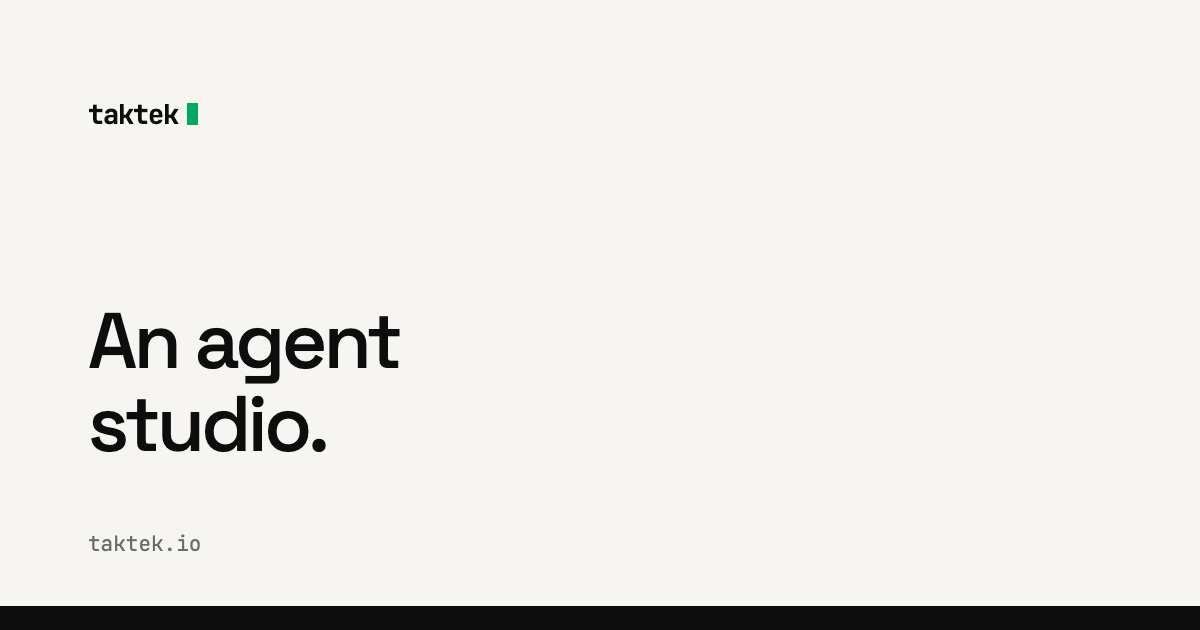
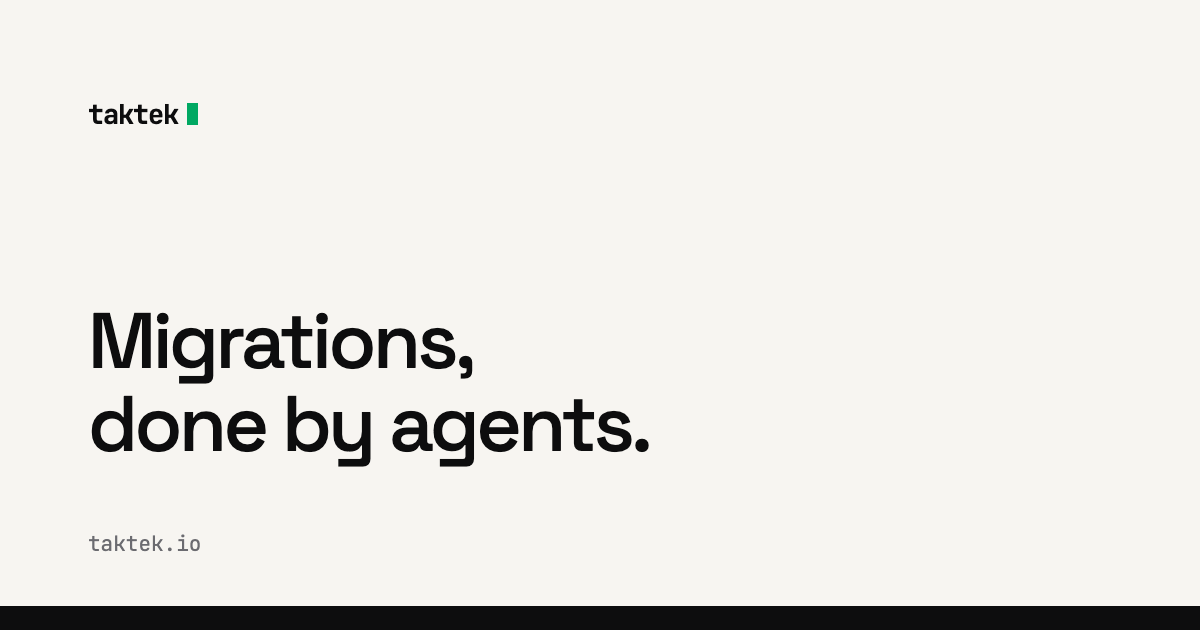
Home: migrations, done by agents
Taktek sells one thing now, so the home page says it: the moves in the
display mono the work list used, each row an email with the move as its
subject, four lines on how, and the pilot offer. The work list stays, below,
as what the same agents built. No employer and no client names: the proof
goes in emails, not on a public page. Share card, llms.txt and the sitemap
date follow.

Changed region(s): [[0.0617, 0.4825, 0.555, 0.754]]

diff --git a/index.html b/index.html
@@ -3,12 +3,12 @@
 <head>
 <meta charset="utf-8">
 <meta name="viewport" content="width=device-width,initial-scale=1">
-<title>taktek — an agent studio</title>
-<meta name="description" content="An agent studio. Hobeich Legal, Closet.ai, BucksBuddy, ghazl, Fitness Spot and Sawfar News.">
+<title>taktek — migrations, done by agents</title>
+<meta name="description" content="A dev shop where the developers are AI agents. Rails to Go, GraphQL to REST, off a vendor, off a monolith. Try one slice at a fixed price: if you don't merge it, you don't pay.">
 <meta name="theme-color" content="#F7F5F1" media="(prefers-color-scheme:light)">
 <meta name="theme-color" content="#0D0D0E" media="(prefers-color-scheme:dark)">
 <meta property="og:title" content="taktek">
-<meta property="og:description" content="An agent studio.">
+<meta property="og:description" content="Migrations, done by agents.">
 <meta property="og:url" content="https://taktek.io">
 <meta property="og:image" content="https://taktek.io/assets/og/og.png">
 <meta property="og:image:width" content="1200">
@@ -21,7 +21,6 @@
 <link rel="preconnect" href="https://fonts.googleapis.com">
 <link rel="preconnect" href="https://fonts.gstatic.com" crossorigin>
 <link href="https://fonts.googleapis.com/css2?family=Space+Grotesk:wght@400;500;700&family=JetBrains+Mono:wght@400;700&display=swap" rel="stylesheet">
-<link rel="canonical" href="https://taktek.io/">
 <meta name="robots" content="index, follow, max-image-preview:large">
 <script type="application/ld+json">
 {
@@ -30,9 +29,10 @@
   "name": "Taktek, LLC",
   "alternateName": "taktek",
   "url": "https://taktek.io/",
-  "description": "An agent studio.",
+  "description": "A dev shop where the developers are AI agents. It migrates code and proves each piece behaves like the old code before it ships.",
   "email": "nizar@taktek.io",
-  "founder": { "@type": "Person", "name": "Nizar" },
+  "founder": { "@type": "Person", "name": "Nizar Mahmoud" },
+  "knowsAbout": ["code migration", "legacy modernization", "AI coding agents", "Ruby on Rails", "Go", "GraphQL", "REST"],
   "sameAs": [
     "https://github.com/taktekhq",
     "https://hobeichlegal.com/",
@@ -74,17 +74,44 @@
   <div class="wrap">
     <section class="hero">
       <p class="eyebrow">Taktek, LLC</p>
-      <h1>An agent<br>studio<em>.</em></h1>
+      <h1>Migrations,<br>done by agents<em>.</em></h1>
+      <p class="lede">A dev shop where the developers are AI agents. We move your code, and prove it still works.</p>
     </section>
 
-    <section class="index" aria-label="Work">
-      <a class="row" target="_blank" rel="noopener" href="https://hobeichlegal.com"><span class="row__n">01</span><span class="row__url">hobeichlegal.com</span><span class="row__arrow" aria-hidden="true">&rarr;</span></a>
-      <a class="row" target="_blank" rel="noopener" href="https://closet.ai"><span class="row__n">02</span><span class="row__url">closet.ai</span><span class="row__arrow" aria-hidden="true">&rarr;</span></a>
-      <a class="row" target="_blank" rel="noopener" href="https://professionallurker.com"><span class="row__n">03</span><span class="row__url">professionallurker.com</span><span class="row__arrow" aria-hidden="true">&rarr;</span></a>
-      <a class="row" target="_blank" rel="noopener" href="https://bucksbuddy.com"><span class="row__n">04</span><span class="row__url">bucksbuddy.com</span><span class="row__arrow" aria-hidden="true">&rarr;</span></a>
-      <a class="row" target="_blank" rel="noopener" href="https://ghazl.ai"><span class="row__n">05</span><span class="row__url">ghazl.ai</span><span class="row__arrow" aria-hidden="true">&rarr;</span></a>
-      <a class="row" target="_blank" rel="noopener" href="https://sawfarnews.com"><span class="row__n">06</span><span class="row__url">sawfarnews.com</span><span class="row__arrow" aria-hidden="true">&rarr;</span></a>
-      <a class="row" target="_blank" rel="noopener" href="https://fitnessspotlb.com"><span class="row__n">07</span><span class="row__url">fitnessspotlb.com</span><span class="row__arrow" aria-hidden="true">&rarr;</span></a>
+    <section class="index" aria-label="What we move">
+      <a class="row" href="mailto:nizar@taktek.io?subject=Rails%20to%20Go"><span class="row__n">01</span><span class="row__url">Rails <b>&rarr;</b> Go</span><span class="row__arrow" aria-hidden="true">&rarr;</span></a>
+      <a class="row" href="mailto:nizar@taktek.io?subject=GraphQL%20to%20REST"><span class="row__n">02</span><span class="row__url">GraphQL <b>&rarr;</b> REST</span><span class="row__arrow" aria-hidden="true">&rarr;</span></a>
+      <a class="row" href="mailto:nizar@taktek.io?subject=Off%20a%20vendor"><span class="row__n">03</span><span class="row__url">off a vendor</span><span class="row__arrow" aria-hidden="true">&rarr;</span></a>
+      <a class="row" href="mailto:nizar@taktek.io?subject=Off%20a%20monolith"><span class="row__n">04</span><span class="row__url">off a monolith</span><span class="row__arrow" aria-hidden="true">&rarr;</span></a>
+      <a class="row row--ask" href="mailto:nizar@taktek.io?subject=A%20migration"><span class="row__n">05</span><span class="row__url">yours?</span><span class="row__arrow" aria-hidden="true">&rarr;</span></a>
+    </section>
+
+    <section class="sec" aria-label="How">
+      <p class="eyebrow">How</p>
+      <ol class="steps">
+        <li>The old code is the spec.</li>
+        <li>Agents move one piece at a time and check it against the old code, on real data.</li>
+        <li>Each piece ships behind a flag that only goes up after enough requests succeed.</li>
+        <li>A person signs off on anything that can't be undone.</li>
+      </ol>
+    </section>
+
+    <section class="offer" aria-label="Try it">
+      <p>Try one slice. Fixed price, two weeks. If you don't merge it, you don't pay<em>.</em></p>
+      <a class="cta" href="mailto:nizar@taktek.io?subject=A%20migration">nizar@taktek.io <span aria-hidden="true">&rarr;</span></a>
+    </section>
+
+    <section class="sec" aria-label="Also built by the same agents">
+      <p class="eyebrow">Also built by the same agents</p>
+      <div class="index">
+        <a class="row" target="_blank" rel="noopener" href="https://closet.ai"><span class="row__n">01</span><span class="row__url">closet.ai</span><span class="row__arrow" aria-hidden="true">&rarr;</span></a>
+        <a class="row" target="_blank" rel="noopener" href="https://professionallurker.com"><span class="row__n">02</span><span class="row__url">professionallurker.com</span><span class="row__arrow" aria-hidden="true">&rarr;</span></a>
+        <a class="row" target="_blank" rel="noopener" href="https://hobeichlegal.com"><span class="row__n">03</span><span class="row__url">hobeichlegal.com</span><span class="row__arrow" aria-hidden="true">&rarr;</span></a>
+        <a class="row" target="_blank" rel="noopener" href="https://bucksbuddy.com"><span class="row__n">04</span><span class="row__url">bucksbuddy.com</span><span class="row__arrow" aria-hidden="true">&rarr;</span></a>
+        <a class="row" target="_blank" rel="noopener" href="https://ghazl.ai"><span class="row__n">05</span><span class="row__url">ghazl.ai</span><span class="row__arrow" aria-hidden="true">&rarr;</span></a>
+        <a class="row" target="_blank" rel="noopener" href="https://sawfarnews.com"><span class="row__n">06</span><span class="row__url">sawfarnews.com</span><span class="row__arrow" aria-hidden="true">&rarr;</span></a>
+        <a class="row" target="_blank" rel="noopener" href="https://fitnessspotlb.com"><span class="row__n">07</span><span class="row__url">fitnessspotlb.com</span><span class="row__arrow" aria-hidden="true">&rarr;</span></a>
+      </div>
     </section>
 
     <footer>

diff --git a/assets/css/studio.css b/assets/css/studio.css
@@ -291,3 +291,68 @@ footer a:hover { color: var(--signal); }
 .row__title { font-size: clamp(19px, 2.6vw, 27px); font-weight: 500; letter-spacing: -0.03em; line-height: 1.15; color: var(--ink); transition: color 0.25s var(--ease); }
 .row:hover .row__title { color: var(--signal); }
 .row__when { font-family: var(--mono); font-size: 11.5px; color: var(--faint); flex: none; margin-inline-start: auto; }
+
+
+/* --- The offer -------------------------------------------------------------
+   The home page sells one thing now, migrations, so the moves take the place
+   the work list had: mono at display size, each one a string with the arrow in
+   signal green. Each row opens an email with the move as the subject, so the
+   list is also the way in. The work moved below, as proof that the same agents
+   ship whole products.
+   ------------------------------------------------------------------------ */
+
+.row__url b { font-weight: 400; color: var(--signal); }
+.row--ask .row__url { color: var(--muted); }
+
+.sec { padding-block: clamp(56px, 9vw, 110px) 0; }
+
+.steps { list-style: none; margin: 0; padding: 0; border-top: 1px solid var(--rule); counter-reset: step; }
+.steps li {
+  display: flex;
+  align-items: baseline;
+  gap: clamp(14px, 2.6vw, 30px);
+  padding-block: clamp(14px, 2.2vw, 22px);
+  border-bottom: 1px solid var(--rule-2);
+  font-size: clamp(18px, 2.3vw, 25px);
+  letter-spacing: -0.02em;
+  line-height: 1.3;
+  color: var(--ink);
+}
+.steps li::before {
+  counter-increment: step;
+  content: counter(step, decimal-leading-zero);
+  font-family: var(--mono);
+  font-size: 11.5px;
+  letter-spacing: 0.06em;
+  color: var(--faint);
+  flex: none;
+}
+
+.offer { padding-block: clamp(56px, 9vw, 110px) 0; }
+.offer p {
+  margin: 0;
+  max-width: 17ch;
+  font-size: clamp(32px, 6vw, 72px);
+  font-weight: 500;
+  line-height: 0.98;
+  letter-spacing: -0.05em;
+  color: var(--ink);
+}
+.offer p em { font-style: normal; color: var(--signal); }
+
+.cta {
+  display: inline-flex;
+  align-items: center;
+  gap: 12px;
+  margin-top: clamp(26px, 3.4vw, 38px);
+  padding: 15px 22px;
+  border: 1px solid var(--ink);
+  border-radius: 999px;
+  font-family: var(--mono);
+  font-size: 14px;
+  color: var(--ink);
+  transition: background-color 0.25s var(--ease), border-color 0.25s var(--ease), color 0.25s var(--ease);
+}
+.cta:hover { background: var(--signal); border-color: var(--signal); color: var(--paper); }
+.cta span { transition: transform 0.3s var(--ease); }
+.cta:hover span { transform: translateX(4px); }

diff --git a/build-og.py b/build-og.py
@@ -20,7 +20,7 @@ OUT = pathlib.Path("assets/og")
 FONTS = pathlib.Path("assets/fonts").resolve()
 PAPER, INK, MUTED, SIGNAL = "#F7F5F1", "#0D0D0E", "#6B6B70", "#00A862"
 
-CARDS = [("og", ["An agent", "studio."], "taktek.io", 78)] + [
+CARDS = [("og", ["Migrations,", "done by agents."], "taktek.io", 78)] + [
     (n["slug"], n["og"], "taktek.io/notes", 54) for n in _bn.NOTES
 ]
 
